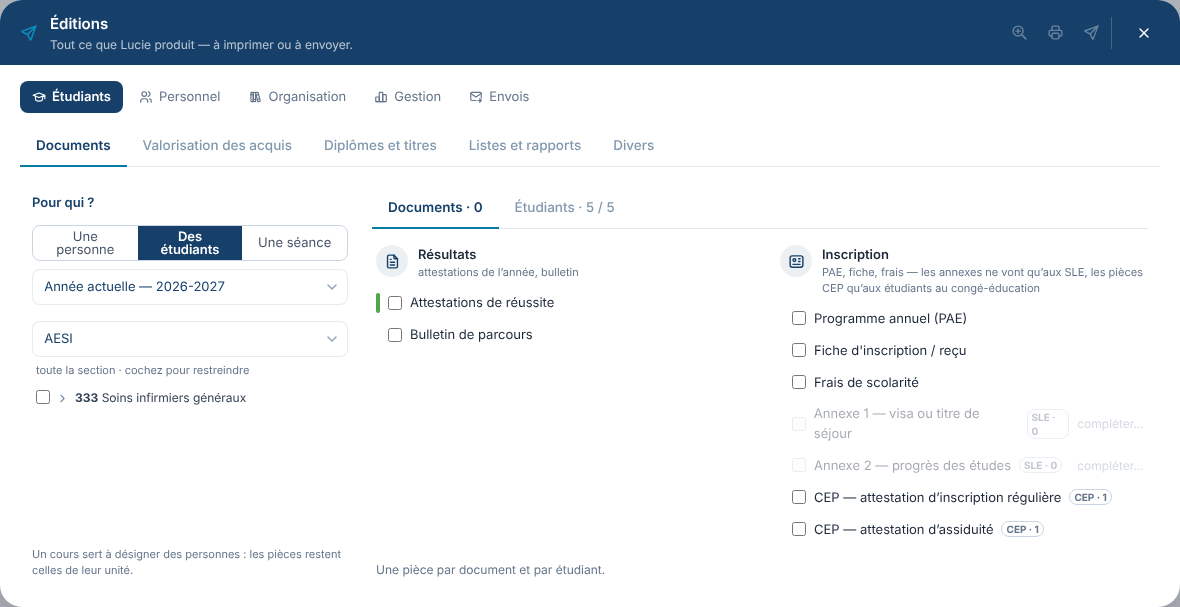
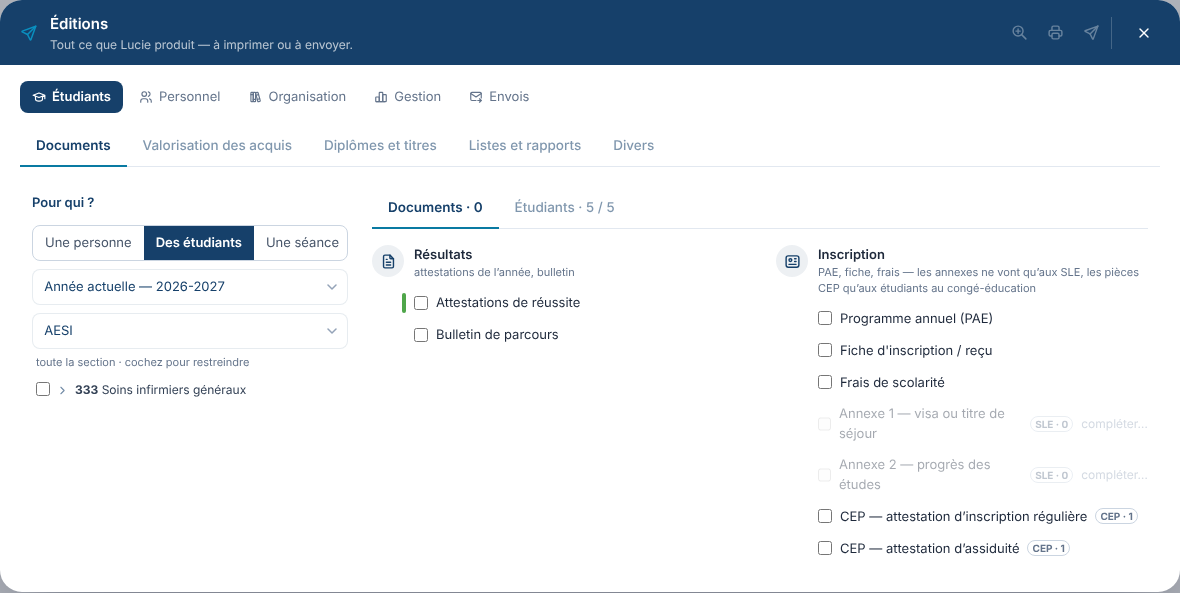
3.1.498 — Éditions, le dessin : « Pour qui ? » sur une ligne, cases alignées sur le titre de leur colonne, plus de phrase sous les listes, « Un document par étudiant » sous les pièces d'une séance, espacements égaux
Claude-Session: https://claude.ai/code/session_012qruWSafZoY4zbyAWnavcA

diff --git a/frontend/src/components/CentreImpressionCentral.jsx b/frontend/src/components/CentreImpressionCentral.jsx
@@ -2095,7 +2095,7 @@ function OngletEtudiants({ perimetre = null, seul = null, onRevenir = null }) {
   };
   /** Une pièce à cocher — repère de couleur, case, intitulé, public, compte. */
   const lignePiece = p => (
-<label key={p.cle} className={`flex items-center gap-2 py-1.5 text-sm ${dispo(p) ? 'cursor-pointer' : 'opacity-40 cursor-not-allowed'}`}
+<label key={p.cle} className={`flex items-center gap-2 pl-[30px] py-1.5 text-sm ${dispo(p) ? 'cursor-pointer' : 'opacity-40 cursor-not-allowed'}`}
     title={dispo(p) ? '' : modePublic && publicDe(p) !== modePublic && PIECES_DOSSIER.includes(p) ? `Pièces ${modePublic.toUpperCase()} en cours — décochez-les pour les autres pièces` : 'Rien à produire pour ce périmètre'}>
     {/* LA PETITE LIGNE DIT LE SENS (2 octobre 2026) : orange pour
         l'ajournement, fraise pour le refus. */}
@@ -2104,7 +2104,7 @@ function OngletEtudiants({ perimetre = null, seul = null, onRevenir = null }) {
     <input type="checkbox" checked={!!choix[p.cle] && dispo(p)} disabled={!dispo(p)} onChange={() => basculerPiece(p)}
       className="w-3.5 h-3.5 accent-iip-blue" />
     {p.label}
-    {p.sle && <span className="text-mention font-bold text-slate-500 border border-slate-300 rounded px-1">SLE · {etudiants.filter(e => e.sle).length}</span>}
+    {p.sle && <span className="text-mention font-bold text-slate-500 border border-slate-300 rounded px-1 whitespace-nowrap">SLE · {etudiants.filter(e => e.sle).length}</span>}
     {/* LES CHAMPS DES ANNEXES SE COMPLÈTENT ENCORE (5 octobre 2026,
         DAELEMAN Florian : « nous avions la possibilité de compléter
         certains champs dans les annexes 1 et 2 ; nous n'y parvenons
@@ -2118,12 +2118,12 @@ function OngletEtudiants({ perimetre = null, seul = null, onRevenir = null }) {
         <button type="button" disabled={!ok}
           onClick={ev => { ev.preventDefault(); ev.stopPropagation(); setFormAnnexe({ cle: p.cle, id: un.id }); }}
           title={ok ? `Compléter les champs de l'annexe pour ${nomPropre(un.nom, un.prenom)}` : 'Cochez un seul étudiant en séjour limité aux études'}
-          className="ml-auto text-second underline text-iip-blue disabled:no-underline disabled:text-slate-400">
+          className="ml-auto text-second underline text-iip-blue whitespace-nowrap disabled:no-underline disabled:text-slate-400">
           compléter…
         </button>
       );
     })()}
-    {p.cep && <span className="text-mention font-bold text-slate-500 border border-slate-300 rounded px-1">CEP · {etudiants.filter(e => e.cep).length}</span>}
+    {p.cep && <span className="text-mention font-bold text-slate-500 border border-slate-300 rounded px-1 whitespace-nowrap">CEP · {etudiants.filter(e => e.cep).length}</span>}
     {p.nominatif && dispo(p) && seance && <span className="ml-auto text-xs text-slate-400 tabular-nums">{p.cle === 'reussite' ? etudiants.filter(e => e.reussites > 0).length : p.cle === 'refus' ? etudiants.filter(e => (e.refus ?? e.echecs) > 0).length : p.cle === 'ajournement' ? etudiants.filter(e => (e.ajournes ?? e.echecs) > 0).length : etudiants.filter(e => e.echecs > 0).length}</span>}
   </label>
   );
@@ -2203,7 +2203,7 @@ function OngletEtudiants({ perimetre = null, seul = null, onRevenir = null }) {
           {!seul && <div className="segments w-full mb-2">
             {[['personne', 'Une personne'], ['groupe', 'Des étudiants'], ['seance', 'Une séance']].map(([v, lib]) => (
               <button key={v} type="button" onClick={() => setPourQui(v)}
-                className={`flex-1 px-2 text-second ${pourQui === v ? 'bg-iip-blue text-white font-semibold' : 'text-slate-600'}`}>{lib}</button>))}
+                className={`flex-1 px-1 whitespace-nowrap text-second ${pourQui === v ? 'bg-iip-blue text-white font-semibold' : 'text-slate-600'}`}>{lib}</button>))}
           </div>}
           {/* L'ORDRE DU PÉRIMÈTRE (3.1.497, Charles) : d'abord QUI (un étudiant), puis QUAND (l'année), puis le reste.
               La recherche restreint la liste, ou ouvre un étudiant de toute l'école quand le périmètre ne le contient pas. */}
@@ -2215,7 +2215,7 @@ function OngletEtudiants({ perimetre = null, seul = null, onRevenir = null }) {
           <select value={parcours ? 'toutes' : annee}
             onChange={e => { if (e.target.value === 'toutes') setParcours(true); else { setParcours(false); setAnnee(e.target.value); } }}
             title="L'année sur laquelle portent les pièces — ou tout le parcours des étudiants cochés"
-            className="controle w-full mb-2 text-sm">
+            className={`controle w-full text-sm ${seance || parcours ? 'mb-2' : ''}`}>
             {(annees.length ? annees : [annee]).map(a => (
               <option key={a} value={a}>{a === getAnnee() ? `Année actuelle — ${a}` : a}</option>
             ))}
@@ -2282,7 +2282,7 @@ function OngletEtudiants({ perimetre = null, seul = null, onRevenir = null }) {
           })()}
         </div>
 
-        <div className={pourQui === 'personne' ? 'hidden' : 'px-3 py-3 text-xs text-slate-500'}>
+        <div className={pourQui === 'personne' || !deplie.size ? 'hidden' : 'px-3 py-3 text-xs text-slate-500'}>
           Un cours sert à désigner des personnes : les pièces restent celles de
           leur unité.
         </div>
@@ -2357,37 +2357,37 @@ function OngletEtudiants({ perimetre = null, seul = null, onRevenir = null }) {
         </div>
         {vueDroite === 'documents' ? (
         <div className="flex-1 overflow-auto min-h-0 p-3 space-y-4">
-          <div className="grid gap-x-8 gap-y-4 md:grid-cols-2 pt-1">
+          <div className="grid gap-x-8 gap-y-5 md:grid-cols-2 pt-1">
             {seance ? <>
-            <div className="px-1">
+            <div>
               <TitreCarte Icone={IconUsers} titre="Pour le Conseil" sous="une pièce pour l’unité" />
               {PIECES.filter(p => !p.nominatif).map(lignePiece)}
             </div>
-            <div className="px-1">
+            <div>
               <TitreCarte Icone={IconFileText} titre="Pour ses étudiants" sous={`les décisions de la ${session === 1 ? '1re' : '2e'} session`} />
               {PIECES.filter(p => p.nominatif).map(lignePiece)}
+              <label className="flex items-center gap-2 pl-[42px] pt-3 text-second text-slate-600 cursor-pointer">
+                <input type="checkbox" checked={separer}
+                  onChange={e => {
+                    setSeparer(e.target.checked);
+                    try { localStorage.setItem('impression.separer', e.target.checked ? '1' : '0'); } catch { /* */ }
+                  }}
+                  className="w-3.5 h-3.5 accent-iip-blue" />
+                Un document par étudiant
+              </label>
             </div>
             </> : <>
-            <div className="px-1">
+            <div>
               <TitreCarte Icone={IconFileText} titre="Résultats" sous={parcours ? "toutes ses années, pour chaque étudiant coché" : "attestations de l’année, bulletin"} />
               {famillePieces.filter(p => CLES_RESULTATS.includes(p.cle) && (!parcours || p.cle === 'reussite')).map(lignePiece)}
             </div>
-            <div className={parcours ? 'hidden' : 'px-1'}>
+            <div className={parcours ? 'hidden' : ''}>
               <TitreCarte Icone={IconId} titre="Inscription" sous="PAE, fiche, frais — les annexes ne vont qu’aux SLE, les pièces CEP qu’aux étudiants au congé-éducation" />
               {famillePieces.filter(p => !CLES_RESULTATS.includes(p.cle)).map(lignePiece)}
             </div>
             </>}
           </div>
-          {parcours || !seance ? <p className="text-second text-slate-500 px-1 m-0">Une pièce par document et par étudiant.</p> : (
-            <label className="flex items-center gap-1.5 px-1 text-second text-slate-600 cursor-pointer">
-              <input type="checkbox" checked={separer}
-                onChange={e => {
-                  setSeparer(e.target.checked);
-                  try { localStorage.setItem('impression.separer', e.target.checked ? '1' : '0'); } catch { /* */ }
-                }}
-                className="w-4 h-4 accent-iip-blue" />
-              Un document par étudiant
-            </label>)}
+          {/* Hors séance, une pièce par document et par étudiant, toujours : la phrase qui le disait sous les listes est retirée. */}
         </div>
         ) : <>
         <div className="px-3 pt-3 pb-2 border-b border-slate-200">

diff --git a/CLAUDE.md b/CLAUDE.md
@@ -2794,8 +2794,10 @@ circulé sans qu'on puisse dire qui l'avait sortie. « Je veux des traces. »
   Conseil » et « Pour ses étudiants », `documents-lot`). **La session n'appartient qu'à la séance.** On arrive déjà
   répondu : la fiche = une personne, la feuille de délibération (session, org, pièces du Conseil) = une séance.
   Aperçu, Produire, Envoyer : icônes de la barre bleue (`outils` de `Fenetre`, portail `PlaceOutils`). À droite, deux
-  faces soulignées : Documents · Étudiants. Le dessin (lignes, alignements) reste à reprendre — Charles : « la logique
-  d'abord ».
+  faces soulignées : Documents · Étudiants. **Le dessin** (3.1.498, « on pousse tout en dev ») : « Pour qui ? » sur
+  une ligne ; la case de chaque pièce s'aligne sur le texte du titre de sa colonne (repère de couleur juste avant) ;
+  plus de phrase sous les listes — « Un document par étudiant » n'existe que pour une séance, sous « Pour ses
+  étudiants » ; l'aide sur les cours ne paraît que quand un cours se déplie ; espacements égaux à gauche.
 
 **L'ANNULER NE COMPARE QUE CE QUE LE GESTE A CHANGÉ** (3.1.482, Charles, 30 octobre 2026, en production :
   « Impossible d'annuler : utilisateur — la ligne a été modifiée depuis, par quelqu'un »). Se reconnecter écrit
